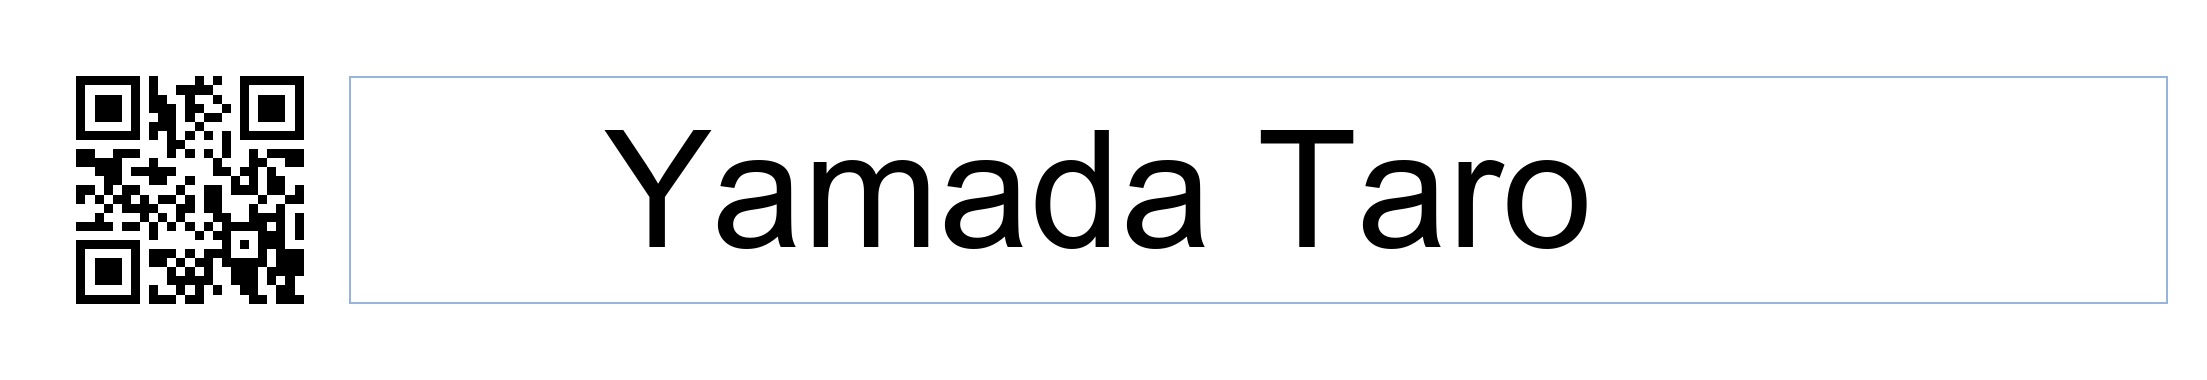
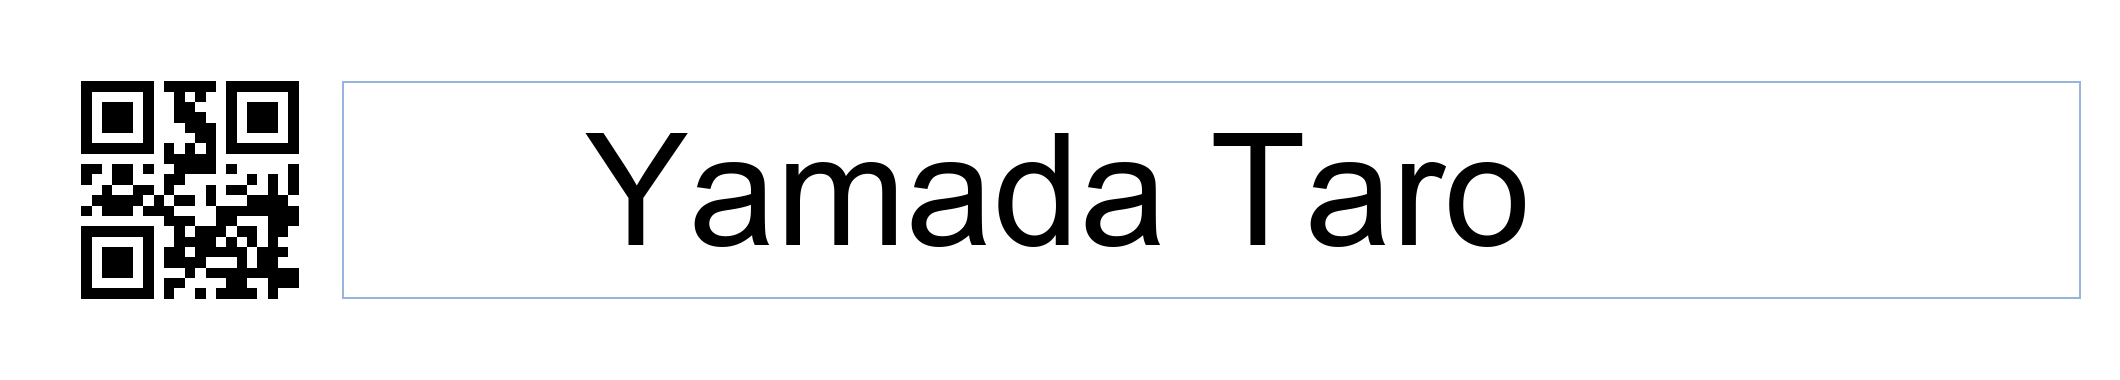
QRペイロードをCQR2バイナリ形式に刷新（CSV/JSON廃止）
- CQR2 バイナリ：固定10Bヘッダ＋末尾UTF-8 name。
  [0]ver=1 [1:3]id(u16) [3]flags(bit0-1:lang) [4:10]x,y,w,h=12bit符号付きQ8.4(±128,1/16)を
  2値3バイトにパック [10:]name。テキスト形式より小さくQRを低バージョン化でき低解像度・ブレに強い。
- ML Kit getRawBytes()（バイト透過）で復号。未リリースのため CSV(CQR1)/JSON 旧形式は削除。
- id を Spec／HTTPレコードに追加（DB連携の数値キー）。
- 生成スクリプト(make_form.py/make_multiform.py)とSPEC.md/READMEをCQR2に更新。実機読み取り確認済み。

diff --git a/app/src/main/java/com/example/qropqr/MainActivity.kt b/app/src/main/java/com/example/qropqr/MainActivity.kt
@@ -41,7 +41,6 @@ import com.google.mlkit.vision.common.InputImage
 import com.google.mlkit.vision.text.TextRecognition
 import com.google.mlkit.vision.text.japanese.JapaneseTextRecognizerOptions
 import com.google.mlkit.vision.text.latin.TextRecognizerOptions
-import org.json.JSONObject
 import java.io.File
 import java.io.FileOutputStream
 import java.util.concurrent.Executors
@@ -246,7 +245,7 @@ class MainActivity : AppCompatActivity() {
         // 検出した全QRを処理：QRごとに向きを判定し、フィールド領域を計算
         val fields = ArrayList<FieldDraw>()
         for (b in barcodes) {
-            val s = b.rawValue?.let { parseSpec(it) } ?: continue
+            val s = parseSpec(b) ?: continue
             val cp = b.cornerPoints ?: continue
             if (cp.size != 4) continue
             val quad = floatArrayOf(
@@ -316,7 +315,7 @@ class MainActivity : AppCompatActivity() {
                 val changed = fieldValues.put(name, text) != text
                 cropView.setImageBitmap(crop)
                 bottomText()?.text = fieldValues.entries.joinToString("\n") { "${it.key}: ${it.value}" }
-                httpServer.publish(name, text, lang, jpegBytes(crop), System.currentTimeMillis())
+                httpServer.publish(name, text, lang, jpegBytes(crop), System.currentTimeMillis(), f.spec.id)
                 if (changed) speak(name, text, lang)
             }
             Log.i(TAG, "RESULT  {\"$name\":\"$text\"}")
@@ -327,23 +326,31 @@ class MainActivity : AppCompatActivity() {
     /** オーバーレイのラベル。OCR済みなら "name: 値"、未OCRなら name。 */
     private fun labelFor(name: String): String = fieldValues[name]?.let { "$name: $it" } ?: name
 
-    private data class Spec(val name: String, val language: String, val x: Float, val y: Float, val w: Float, val h: Float)
+    private data class Spec(val name: String, val language: String, val x: Float, val y: Float, val w: Float, val h: Float, val id: Int = 0)
 
-    private fun parseSpec(raw: String): Spec? {
-        if (raw.startsWith("CQR1,")) {
-            return try {
-                val p = raw.substring(5).split(",")
-                if (p.size < 6) null
-                else Spec(p[0].ifEmpty { "field" }, p[1].ifEmpty { "en" }, p[2].toFloat(), p[3].toFloat(), p[4].toFloat(), p[5].toFloat())
-            } catch (e: Exception) { null }
-        }
+    /**
+     * QRペイロード（CQR2 バイナリ専用）を Spec に解釈。固定10Bヘッダ＋末尾name:
+     *  [0] ver=1 / [1..2] id(uint16 LE) / [3] flags(bit0-1=lang 0:en 1:ja) /
+     *  [4..6] x,y / [7..9] w,h  …各 12bit 符号付き固定小数 Q8.4(=値/16) を2個3バイトにパック /
+     *  [10..] name(UTF-8, 残り全部=可変長, 長さ識別不要)
+     * 12bitパック: (A,B) → [A>>4, (A&0xF)<<4 | B>>8, B&0xFF]。Q8.4=整数8bit+小数4bit, 範囲±128, 分解能1/16。
+     * ML Kit の rawBytes（バイト透過）で読む。未リリースのため CSV/JSON 等の旧形式は非対応。
+     */
+    private fun parseSpec(b: Barcode): Spec? {
+        val rb = b.rawBytes ?: return null
+        if (rb.size < CQR2_HEADER || (rb[0].toInt() and 0xff) != CQR2_VER) return null
         return try {
-            val j = JSONObject(raw)
-            if (!j.has("x") || !j.has("y") || !j.has("w") || !j.has("h")) null
-            else Spec(
-                j.optString("name", j.optString("n", "field")), j.optString("language", j.optString("l", "en")),
-                j.getDouble("x").toFloat(), j.getDouble("y").toFloat(), j.getDouble("w").toFloat(), j.getDouble("h").toFloat()
-            )
+            val id = (rb[1].toInt() and 0xff) or ((rb[2].toInt() and 0xff) shl 8)
+            val lang = if ((rb[3].toInt() and 0x03) == 1) "ja_jp" else "en"
+            fun u(o: Int) = rb[o].toInt() and 0xff
+            fun s12(v: Int): Int = if (v >= 0x800) v - 0x1000 else v   // 12bit符号拡張
+            // [o..o+2] にパックされた2個の12bit値(A,B)を復元（/16でQ8.4実値）
+            val x = s12((u(4) shl 4) or (u(5) shr 4)) / 16f
+            val y = s12(((u(5) and 0x0f) shl 8) or u(6)) / 16f
+            val w = s12((u(7) shl 4) or (u(8) shr 4)) / 16f
+            val h = s12(((u(8) and 0x0f) shl 8) or u(9)) / 16f
+            val name = if (rb.size > CQR2_HEADER) String(rb, CQR2_HEADER, rb.size - CQR2_HEADER, Charsets.UTF_8).trim() else ""
+            Spec(name.ifEmpty { "field" }, lang, x, y, w, h, id)
         } catch (e: Exception) { null }
     }
 
@@ -576,6 +583,8 @@ class MainActivity : AppCompatActivity() {
         private const val OCR_MS = 600L
         private const val SHOW_MS = 80L
         private const val HTTP_PORT = 8080  // 端末内HTTPサーバ。adb forward tcp:8080 tcp:8080 でPCから閲覧可
+        private const val CQR2_VER = 1      // CQR2 バイナリ形式のバージョン（rawBytes[0]＝magic兼用）
+        private const val CQR2_HEADER = 10  // 固定ヘッダ長（ver1+id2+flags1+ xy3B + wh3B；座標は12bit Q8.4パック）
         private const val ORIENT_MS = 250L    // 向き軸を更新する間隔（毎フレームの分類はキャッシュ軸で軽量）
         private const val DBG_ORIENT = false  // 検証用：判定したBR隅をログ出力
         private const val MIN_EXP_NS = 250_000L     // 1/4000s（明るい場面の下限）

diff --git a/app/src/main/java/com/example/qropqr/HttpServer.kt b/app/src/main/java/com/example/qropqr/HttpServer.kt
@@ -34,7 +34,7 @@ import java.util.concurrent.Executors
  */
 class OcrHttpServer(private val port: Int = 8080) {
 
-    data class Rec(val ts: Long, val name: String, val value: String, val lang: String)
+    data class Rec(val ts: Long, val name: String, val value: String, val lang: String, val id: Int)
 
     private val records = CopyOnWriteArrayList<Rec>()
     private val lastByName = java.util.concurrent.ConcurrentHashMap<String, String>()  // name -> 直近記録値
@@ -61,12 +61,12 @@ class OcrHttpServer(private val port: Int = 8080) {
      * 「そのフィールドの値が前回と変わった時」だけ1行追加（フィールド名ごとに抑制）。
      * 複数フィールドをラウンドロビンOCRしても、同じ値の再読み取りは記録されない。
      */
-    fun publish(name: String, value: String, lang: String, jpeg: ByteArray?, ts: Long) {
+    fun publish(name: String, value: String, lang: String, jpeg: ByteArray?, ts: Long, id: Int = 0) {
         if (jpeg != null) cropJpeg = jpeg
         if (value.isEmpty()) return
-        latest = Rec(ts, name, value, lang)
+        latest = Rec(ts, name, value, lang, id)
         if (lastByName.put(name, value) != value) {
-            records.add(Rec(ts, name, value, lang))
+            records.add(Rec(ts, name, value, lang, id))
             while (records.size > MAX_RECORDS) records.removeAt(0)
         }
     }
@@ -171,7 +171,7 @@ class OcrHttpServer(private val port: Int = 8080) {
     }
 
     private fun recJson(r: Rec) = JSONObject()
-        .put("ts", r.ts).put("name", r.name).put("value", r.value).put("lang", r.lang)
+        .put("ts", r.ts).put("id", r.id).put("name", r.name).put("value", r.value).put("lang", r.lang)
 
     private fun recordsHtml(): String {
         val sb = StringBuilder()

diff --git a/testdata/make_multiform.py b/testdata/make_multiform.py
@@ -4,14 +4,18 @@
 1枚の画像に、様々な大きさ・様々なオフセット(右/下/左/上, 負値含む)の
 QR＋読み取り領域を並べ、各領域に適当なダミー文字列を配置する。
 
-各QRは CQR1 形式 `CQR1,<name>,<lang>,<x>,<y>,<w>,<h>` を埋め込む。
-座標はQRサイズ=1単位の相対値で、フィールドのピクセル矩形は
-  left = qr_x + x*S, top = qr_y + y*S, width = w*S, height = h*S   (S=QR一辺px)
-としてアプリの透視変換と一致させる。読み取り対象テキストはこの矩形内に描く。
+各QRは CQR2 バイナリ形式（固定12Bヘッダ＋末尾UTF-8 name）を埋め込む。
+  [0]ver=1 [1:3]id(u16 LE) [3]flags(bit0-1:lang 0=en/1=ja) [4:12]x,y,w,h(int16 Q8.8=値/256) [12:]name
+テキスト形式のCQR1よりバイト数が小さく、QRを低バージョン化＝モジュールが大きく低解像度に強い。
+
+座標はQRシンボル（白枠を除く）=1単位の相対値。フィールドのピクセル矩形は
+  left = symTL_x + x*sym_px, top = symTL_y + y*sym_px, ...（gen_qr参照）としてアプリと一致させる。
 
 依存: pip install qrcode pillow
 """
+import struct
 import qrcode
+from qrcode.util import QRData, MODE_8BIT_BYTE
 from PIL import Image, ImageDraw, ImageFont
 
 JA_FONTS = [
@@ -37,8 +41,21 @@ def find_font(candidates, size):
 BORDER = 4  # クワイエットゾーン(白枠)のモジュール数
 
 
+def cqr2(name, lang, x, y, w, h, id=0):
+    """CQR2 バイナリ payload（固定10Bヘッダ＋末尾UTF-8 name）。
+       座標は 12bit符号付き固定小数 Q8.4(値*16, 範囲±128, 分解能1/16) を2個3バイトにパック。"""
+    flags = 1 if lang.startswith("ja") else 0
+    def q84(v):
+        return max(-2048, min(2047, int(round(v * 16)))) & 0xFFF
+    def pack2(a, b):  # 12bit×2 → 3バイト
+        A, B = q84(a), q84(b)
+        return bytes([(A >> 4) & 0xFF, ((A & 0x0F) << 4) | ((B >> 8) & 0x0F), B & 0xFF])
+    header = struct.pack("<BHB", 1, id & 0xFFFF, flags) + pack2(x, y) + pack2(w, h)
+    return header + name.encode("utf-8")
+
+
 def gen_qr(payload, size_px):
-    """QRを生成し size_px 角に最近傍リサイズ。
+    """QR(payload=bytes)を生成し size_px 角に最近傍リサイズ。
 
     返り値: (img, sym_off, sym_px)
       sym_off … 画像TLから「シンボルTL(=黒モジュール左上)」までのpxオフセット
@@ -47,7 +64,10 @@ def gen_qr(payload, size_px):
     シンボル基準で配置しないと、白枠ぶんだけ原点・スケールがズレる。
     """
     qr = qrcode.QRCode(error_correction=qrcode.constants.ERROR_CORRECT_L, box_size=10, border=BORDER)
-    qr.add_data(payload)
+    if isinstance(payload, (bytes, bytearray)):
+        qr.add_data(QRData(bytes(payload), mode=MODE_8BIT_BYTE, check_data=False))  # バイトモード固定
+    else:
+        qr.add_data(payload)
     qr.make(fit=True)
     sym_modules = len(qr.modules)             # シンボルのモジュール数（白枠を除く）
     img_modules = sym_modules + 2 * BORDER    # 画像のモジュール数（白枠を含む）
@@ -71,14 +91,14 @@ def fit_font(text, max_w, max_h, candidates, pad=0.14):
     return font, font.getbbox(text)
 
 
-# (qx, qy, S=QR一辺px, name, lang, x, y, w, h, text)  ※x,y,w,h はQRサイズ単位の相対値
+# (qx, qy, S=QR一辺px, id, name, lang, x, y, w, h, text)  ※x,y,w,h はQRサイズ単位の相対値
 FIELDS = [
-    dict(qx=90,  qy=175,  S=120, name="invoice_no", lang="en",    x=1.3,  y=0.05,  w=6.0, h=0.8, text="INV-2026-0042"),
-    dict(qx=90,  qy=370,  S=150, name="user_name",  lang="ja_jp", x=0.0,  y=1.25,  w=6.5, h=0.9, text="なかやま しんた"),
-    dict(qx=95,  qy=735,  S=205, name="address_en", lang="en",    x=1.2,  y=0.20,  w=4.3, h=1.2, text="1600 Amphitheatre Pkwy"),
-    dict(qx=905, qy=1190, S=130, name="issue_date", lang="en",    x=-5.6, y=-0.95, w=6.0, h=0.7, text="2026-06-04"),
-    dict(qx=985, qy=1335, S=165, name="address_ja", lang="ja_jp", x=-5.4, y=0.10,  w=5.0, h=0.9, text="東京都千代田区一番町"),
-    dict(qx=90,  qy=1565, S=115, name="serial_no",  lang="en",    x=1.4,  y=0.00,  w=5.2, h=0.7, text="A-7F3K-99Z"),
+    dict(qx=90,  qy=175,  S=120, id=1, name="invoice_no", lang="en",    x=1.3,  y=0.05,  w=6.0, h=0.8, text="INV-2026-0042"),
+    dict(qx=90,  qy=370,  S=150, id=2, name="user_name",  lang="ja_jp", x=0.0,  y=1.25,  w=6.5, h=0.9, text="なかやま しんた"),
+    dict(qx=95,  qy=735,  S=205, id=3, name="address_en", lang="en",    x=1.2,  y=0.20,  w=4.3, h=1.2, text="1600 Amphitheatre Pkwy"),
+    dict(qx=905, qy=1190, S=130, id=4, name="issue_date", lang="en",    x=-5.6, y=-0.95, w=6.0, h=0.7, text="2026-06-04"),
+    dict(qx=985, qy=1335, S=165, id=5, name="address_ja", lang="ja_jp", x=-5.4, y=0.10,  w=5.0, h=0.9, text="東京都千代田区一番町"),
+    dict(qx=90,  qy=1565, S=115, id=6, name="serial_no",  lang="en",    x=1.4,  y=0.00,  w=5.2, h=0.7, text="A-7F3K-99Z"),
 ]
 
 W, H = 1240, 1754  # A4 縦 @150dpi 相当
@@ -94,10 +114,11 @@ def main(out_path="form_multi.png"):
     draw.text((90, 116), "複数QR（1QR=1フィールド）／様々な大きさ・オフセットの読み取りサンプル", fill=(90, 90, 90), font=sub)
 
     cap_font = find_font(EN_FONTS, 15)
-    print(f"{'name':<12} {'lang':<6} {'payload':<44} field_px(L,T,W,H)")
+    print(f"{'name':<12} id  {'CQR2':>5} {'(CSV)':>6}  hex")
     for f in FIELDS:
         S = f["S"]
-        payload = f"CQR1,{f['name']},{f['lang']},{f['x']},{f['y']},{f['w']},{f['h']}"
+        payload = cqr2(f["name"], f["lang"], f["x"], f["y"], f["w"], f["h"], f["id"])
+        csv = f"CQR1,{f['name']},{f['lang']},{f['x']},{f['y']},{f['w']},{f['h']}"
         img, sym_off, sym_px = gen_qr(payload, S)
         canvas.paste(img, (f["qx"], f["qy"]))
 
@@ -119,9 +140,9 @@ def main(out_path="form_multi.png"):
         draw.text((tx, ty), f["text"], fill="black", font=font)
 
         # QR直上に小さな注記（QRは読み取り対象ではないので干渉しない）
-        draw.text((f["qx"], f["qy"] - 20), f"{f['name']} [{f['lang']}]", fill=(120, 120, 120), font=cap_font)
+        draw.text((f["qx"], f["qy"] - 20), f"{f['name']} [{f['lang']}] #{f['id']}", fill=(120, 120, 120), font=cap_font)
 
-        print(f"{f['name']:<12} {f['lang']:<6} {payload:<44} ({fx:.0f},{fy:.0f},{fw:.0f},{fh:.0f})")
+        print(f"{f['name']:<12} {f['id']:<3} {len(payload):>4}B {len(csv):>5}B  {payload.hex()}")
 
     canvas.save(out_path)
     print(f"\nwrote {out_path}  ({W}x{H}, {len(FIELDS)} fields)")

diff --git a/testdata/make_form.py b/testdata/make_form.py
@@ -1,16 +1,18 @@
 #!/usr/bin/env python3
-"""Qrop QR テスト用フォーム生成（単一フィールド）。
+"""Qrop QR テスト用フォーム生成（単一フィールド・CQR2 バイナリ）。
 
-QRコード（フィールド仕様 CQR1 形式）と、その指定オフセットにOCR対象テキストを置いた
-PNGを生成する。詳細フォーマットは docs/SPEC.md を参照。
+QR（CQR2 バイナリ：固定12Bヘッダ＋末尾UTF-8 name）と、その指定オフセットにOCR対象テキストを
+置いたPNGを生成する。詳細フォーマットは docs/SPEC.md を参照。
 
-重要: フィールドのオフセット/サイズは「QRシンボル（黒モジュール部分）の左上・一辺」を
-1単位として計算する（クワイエットゾーン=白枠は含めない）。アプリは ML Kit cornerPoints=
-シンボル四隅を単位正方形にするため、白枠込みで計算すると遠いフィールドほど大きくズレる。
+重要: フィールドのオフセット/サイズは「QRシンボル（黒モジュール部分）の左上・一辺」を1単位として
+計算する（クワイエットゾーン=白枠は含めない）。アプリは ML Kit cornerPoints=シンボル四隅を単位
+正方形にするため、白枠込みで計算すると遠いフィールドほど大きくズレる。
 
 依存: pip install qrcode pillow
 """
+import struct
 import qrcode
+from qrcode.util import QRData, MODE_8BIT_BYTE
 from PIL import Image, ImageDraw, ImageFont
 
 JA_FONTS = ["C:/Windows/Fonts/meiryo.ttc", "C:/Windows/Fonts/YuGothM.ttc",
@@ -30,11 +32,24 @@ def find_font(candidates, size):
     return ImageFont.load_default()
 
 
+def cqr2(name, lang, x, y, w, h, id=0):
+    """CQR2 バイナリ payload（固定10Bヘッダ＋末尾UTF-8 name）。
+       座標は 12bit符号付き固定小数 Q8.4(値*16, 範囲±128, 分解能1/16) を2個3バイトにパック。"""
+    flags = 1 if lang.startswith("ja") else 0
+    def q84(v):
+        return max(-2048, min(2047, int(round(v * 16)))) & 0xFFF
+    def pack2(a, b):
+        A, B = q84(a), q84(b)
+        return bytes([(A >> 4) & 0xFF, ((A & 0x0F) << 4) | ((B >> 8) & 0x0F), B & 0xFF])
+    header = struct.pack("<BHB", 1, id & 0xFFFF, flags) + pack2(x, y) + pack2(w, h)
+    return header + name.encode("utf-8")
+
+
 def gen_qr(payload, size_px):
-    """QRを size_px 角に生成。返り値 (img, sym_off, sym_px)。
+    """QR(payload=bytes)を size_px 角に生成。返り値 (img, sym_off, sym_px)。
     sym_off=画像TL→シンボルTLのpx, sym_px=シンボル一辺px(=アプリの1単位)。"""
     qr = qrcode.QRCode(error_correction=qrcode.constants.ERROR_CORRECT_L, box_size=10, border=BORDER)
-    qr.add_data(payload)
+    qr.add_data(QRData(bytes(payload), mode=MODE_8BIT_BYTE, check_data=False))
     qr.make(fit=True)
     sym_modules = len(qr.modules)
     img_modules = sym_modules + 2 * BORDER
@@ -56,8 +71,8 @@ def fit_font(text, max_w, max_h, candidates, pad=0.14):
     return font, font.getbbox(text)
 
 
-def make_form(out_path, name, lang, x, y, w, h, text, qr_px=300, margin=40):
-    payload = f"CQR1,{name},{lang},{x},{y},{w},{h}"
+def make_form(out_path, id, name, lang, x, y, w, h, text, qr_px=300, margin=40):
+    payload = cqr2(name, lang, x, y, w, h, id)
     img, sym_off, sym_px = gen_qr(payload, qr_px)
     qx = qy = margin
     sx0, sy0 = qx + sym_off, qy + sym_off          # シンボルTL = unit原点
@@ -74,9 +89,9 @@ def make_form(out_path, name, lang, x, y, w, h, text, qr_px=300, margin=40):
     font, (bl, bt, br, bb) = fit_font(text, fw, fh, cands)
     draw.text((fx + fw * 0.14 - bl, fy + (fh - (bb - bt)) / 2 - bt), text, fill="black", font=font)
     canvas.save(out_path)
-    print(f"wrote {out_path}  (payload={payload!r})")
+    print(f"wrote {out_path}  (CQR2 {len(payload)}B: {payload.hex()})")
 
 
 if __name__ == "__main__":
-    make_form("form_en.png", "name", "en", 1.2, 0, 8, 1, "Yamada Taro")
-    make_form("form_ja.png", "user_name", "ja_jp", 1.2, 0, 8, 1, "なかやま しんた")
+    make_form("form_en.png", 1, "name", "en", 1.2, 0, 8, 1, "Yamada Taro")
+    make_form("form_ja.png", 2, "user_name", "ja_jp", 1.2, 0, 8, 1, "なかやま しんた")

diff --git a/docs/SPEC.md b/docs/SPEC.md
@@ -1,7 +1,9 @@
-# Qrop QR — フィールド仕様（QRペイロード形式）
+# Qrop QR — フィールド仕様（QRペイロード形式 CQR2）
 
-QRコードには、「OCR対象フィールドの名前・言語・位置・サイズ」を記述します。
+QRコードには、「OCR対象フィールドの id・名前・言語・位置・サイズ」を **可変長バイナリ（CQR2）** で記述します。
 位置・サイズは **QRコードのサイズを 1 単位とした相対座標** で表します（QRが画面内でどんな大きさ・角度で写っても、フィールドの実位置が一意に決まります）。
+
+> 旧テキスト形式（CQR1 CSV / JSON）は廃止しました。アプリは CQR2 バイナリのみを解釈します。
 
 ## 座標系
 
@@ -9,12 +11,6 @@ QRコードには、「OCR対象フィールドの名前・言語・位置・サ
 - X軸 = QR上辺方向（QRの幅 = `1.0`）
 - Y軸 = QR左辺方向（QRの高さ = `1.0`）
 - フィールドは `(x, y)` を左上、`(w, h)` を幅・高さとする矩形（すべてQR単位）
-
-> **重要（1単位の定義）**：ここでいう「QRのサイズ」は、検出器（ML Kit `cornerPoints`）が返す
-> **QRシンボル（黒モジュール部分）の四隅**を基準とします。**クワイエットゾーン（周囲の白マージン）は含みません。**
-> 帳票やサンプルを作る際は、フィールドのオフセット・サイズを**白枠を除いたシンボルの左上・一辺**に対して
-> 計算してください（白枠を含めて計算すると、白枠ぶんだけ原点・スケールがズレ、QRから遠いフィールドほど
-> 大きく外れます）。`testdata/make_multiform.py` の `gen_qr()` が正しい計算例です。
 
 ```
  (0,0)        x=1
@@ -32,43 +28,46 @@ QRコードには、「OCR対象フィールドの名前・言語・位置・サ
 
 実機では、QRの4隅を `Matrix.setPolyToPoly` で正対矩形に写す透視変換を作り、その変換でフィールド矩形を切り出してからOCRします。
 
-## フォーマット1: コンパクト形式 `CQR1`（推奨）
+> **重要（1単位の定義）**：「QRのサイズ」は、検出器（ML Kit `cornerPoints`）が返す
+> **QRシンボル（黒モジュール部分）の四隅**を基準とします。**クワイエットゾーン（周囲の白マージン）は含みません。**
+> 帳票やサンプルを作る際は、フィールドのオフセット・サイズを**白枠を除いたシンボルの左上・一辺**に対して
+> 計算してください（白枠込みで計算すると、白枠ぶんだけ原点・スケールがズレ、QRから遠いフィールドほど
+> 大きく外れます）。`testdata/make_multiform.py` の `gen_qr()` / `cqr2()` が正しい計算例です。
 
-```
-CQR1,<name>,<lang>,<x>,<y>,<w>,<h>
-```
+## バイナリレイアウト（little-endian, 固定10Bヘッダ＋末尾name）
 
-カンマ区切り。JSONより情報量が小さく、低バージョンQR（黒モジュールが大きく、ブラーに強い）にできます。誤り訂正レベルは **L** 推奨。
+| off | size | field | 符号化 |
+|---|---|---|---|
+| 0 | 1 | `ver` | フォーマット版＝`1`（`rawBytes[0]` を magic 兼用） |
+| 1 | 2 | `id` | uint16（DB等の数値キー。不要なら 0） |
+| 3 | 1 | `flags` | bit0-1: 言語（`0`=en, `1`=ja）。bit2-7 は予約(0) |
+| 4 | 3 | `x,y` | 12bit符号付き **Q8.4** × 2 を3バイトにパック |
+| 7 | 3 | `w,h` | 12bit符号付き Q8.4 × 2 を3バイトにパック |
+| 10.. | 可変 | `name` | UTF-8（**末尾＝残り全部**。長さフィールド不要） |
 
-| フィールド | 意味 | 例 |
-|---|---|---|
-| `name` | フィールド名（空なら `field`） | `user_name` |
-| `lang` | OCR言語（空なら `en`）。`ja` / `ja_jp` で日本語、それ以外は英語(Latin) | `ja_jp` |
-| `x, y` | フィールド左上のオフセット（QR単位） | `1.2, 0` |
-| `w, h` | フィールドの幅・高さ（QR単位） | `8, 1` |
+- **座標 = 12bit固定小数 Q8.4**（整数8bit＋小数4bit）。実値 = raw/16、**範囲 ±128**、**分解能 1/16≈0.0625**。1.5バイト/値。
+- **12bitパック**：2値 (A,B) → `[A>>4, (A&0xF)<<4 | B>>8, B&0xFF]`。復元は逆順（12bitは符号拡張）。
+- ヘッダは固定10B。`name` を末尾の可変長にすることで区切り・長さ識別が不要。
+- 例: `id=4, en, x=-5.6, y=-0.95, w=6.0, h=0.7, name="issue_date"`
+  → 10Bヘッダ＋`issue_date`(10B)=**20バイト**。テキスト相当（37B）の約半分で、QRを低バージョン化できる
+  （＝同じ表示サイズでもモジュールが大きく、低解像度・ブレに強い）。
+- さらに version 1（21×21, ≤17B）を狙うなら `id` を省く（10文字nameでも 8B+10B=18B…名前を9字以下に）か、
+  座標を int8 Q4.4（1B/値・範囲±8）に落とす（精度・範囲とのトレードオフ）。
 
-例：QRの右側、QR1個ぶん右(`x=1.2`)・同じ高さ(`y=0`)から、幅QR8個・高さQR1個ぶんを `user_name`(日本語)としてOCR：
+## デコード（アプリ側）
 
-```
-CQR1,user_name,ja_jp,1.2,0,8,1
-```
+- ML Kit `Barcode.getRawBytes()`（**バイト透過**）で生バイトを取得して解釈する。
+  `getRawValue()`（String）はバイナリだと文字コード解釈で壊れるため使わない。
+- `rawBytes[0] != 1` または 12バイト未満は無効として無視。
 
-## フォーマット2: JSON 形式
+## 言語コード（flags 下位2bit）
 
-`x,y,w,h` が必須。`name`/`n`、`language`/`l` は省略可（短縮キー可）。
-
-```json
-{"name":"user_name","language":"ja_jp","x":1.2,"y":0,"w":8,"h":1}
-```
-
-`CQR1,` で始まらないペイロードはJSONとして解釈されます（先頭判定）。
-
-## 言語コード
-
-- `ja`, `ja_jp` → ML Kit Japanese（日本語＋ラテン）
-- 上記以外 → ML Kit Latin（英数字）
+- `1` → ML Kit Japanese（日本語＋ラテン）
+- `0`（その他） → ML Kit Latin（英数字）
 
 ## 備考
 
-- フィールドは複数定義ではなく**1QR=1フィールド**（現行実装）。複数欲しい場合はQRを複数貼る。
-- `w, h` は切り出し画像の解像度に影響（実装上 1単位 = 48px、最大2000px にクランプ）。
+- **1QR=1フィールド**。複数フィールドはQRを複数貼る（アプリはフレーム内の全QRを同時処理）。
+- `w, h` は切り出し画像の解像度に影響（実装上 1単位 = 48px、最大2000pxにクランプ）。
+- Q8.8 の分解能は 1/256≈0.004、範囲±128。さらに小さくしたい場合は座標を int8 Q4.4（1B/軸,
+  分解能1/16・範囲±8）に落とし、`id` を省けば QR version 1（21×21）も狙える（精度・範囲とのトレードオフ）。
